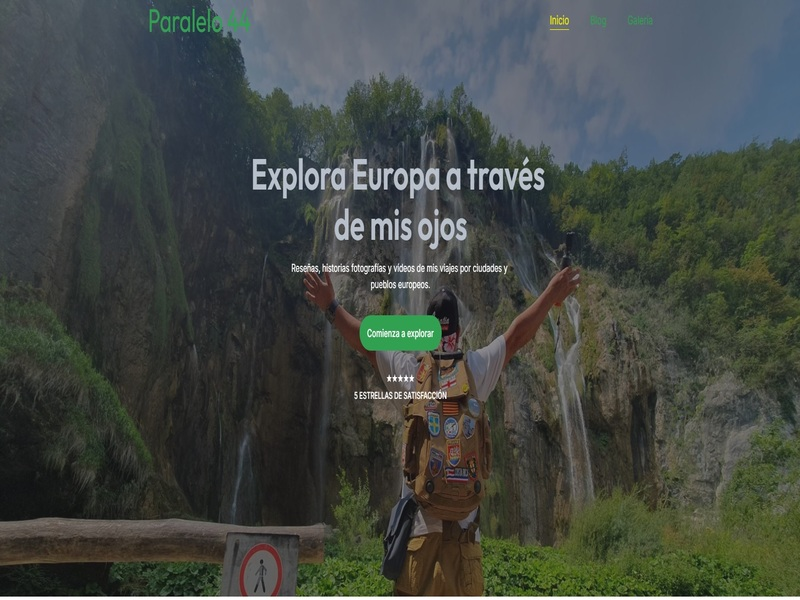
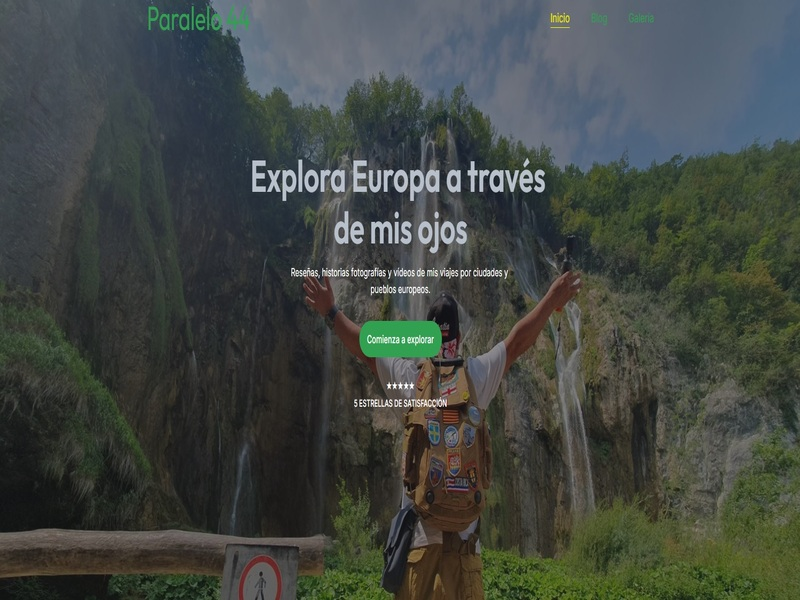
Agregando Poyecto Paralelo44 Explorando Europa

diff --git a/index.html b/index.html
@@ -256,6 +256,15 @@
             </div>
 
             <div class="proyecto"> 
+                <a href="https://paralelo44.blog/" target="_blank">
+                    <img src="img/PARALELO44.jpg" alt="1">               
+                <div class="overlay">
+                    <h3>Paralelo 44</h3>
+                    <p>Explora Europa a través de nuestra plataforma</p>
+                </div> </a>
+            </div>
+
+            <div class="proyecto"> 
                 <a href="https://colegioweb-wptest-hugojovelweb.netlify.app/" target="_blank">
                     <img src="img/colegio-web.png" alt="1">
                     <div class="overlay">
